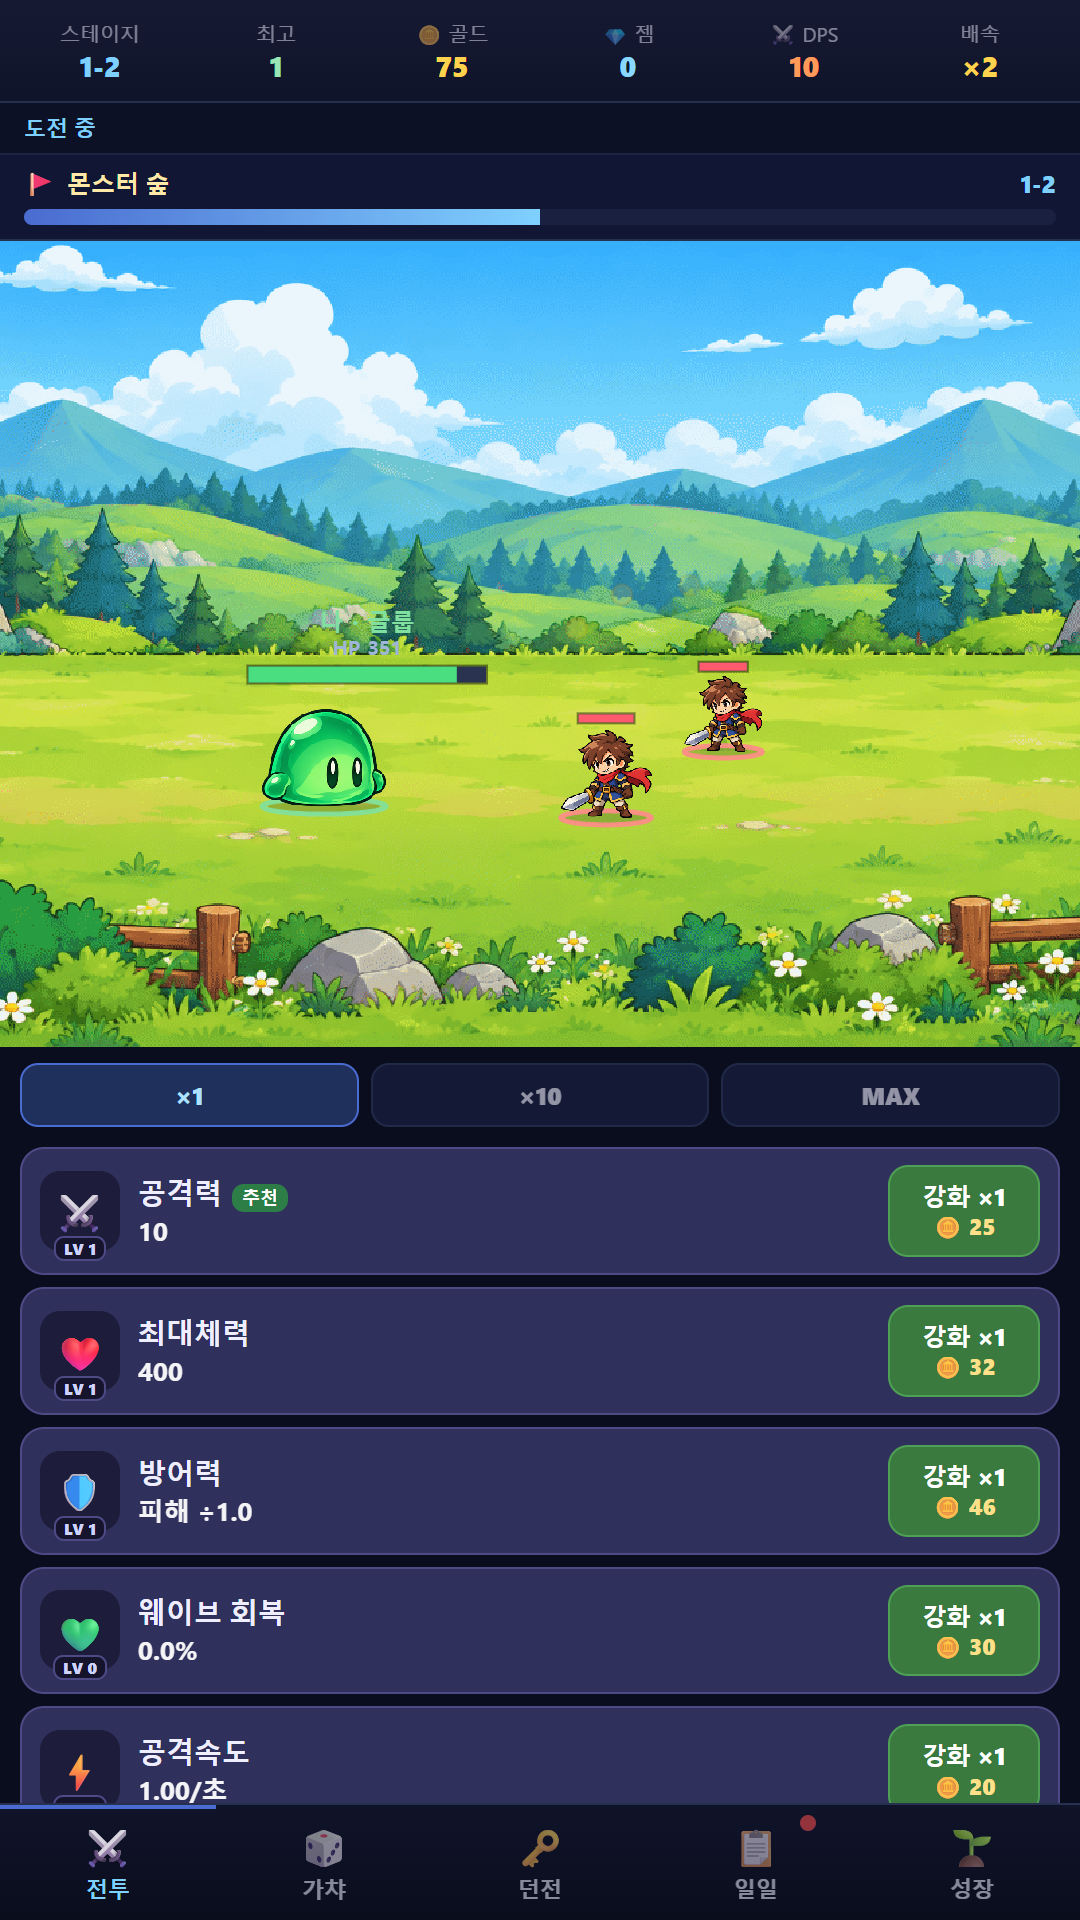
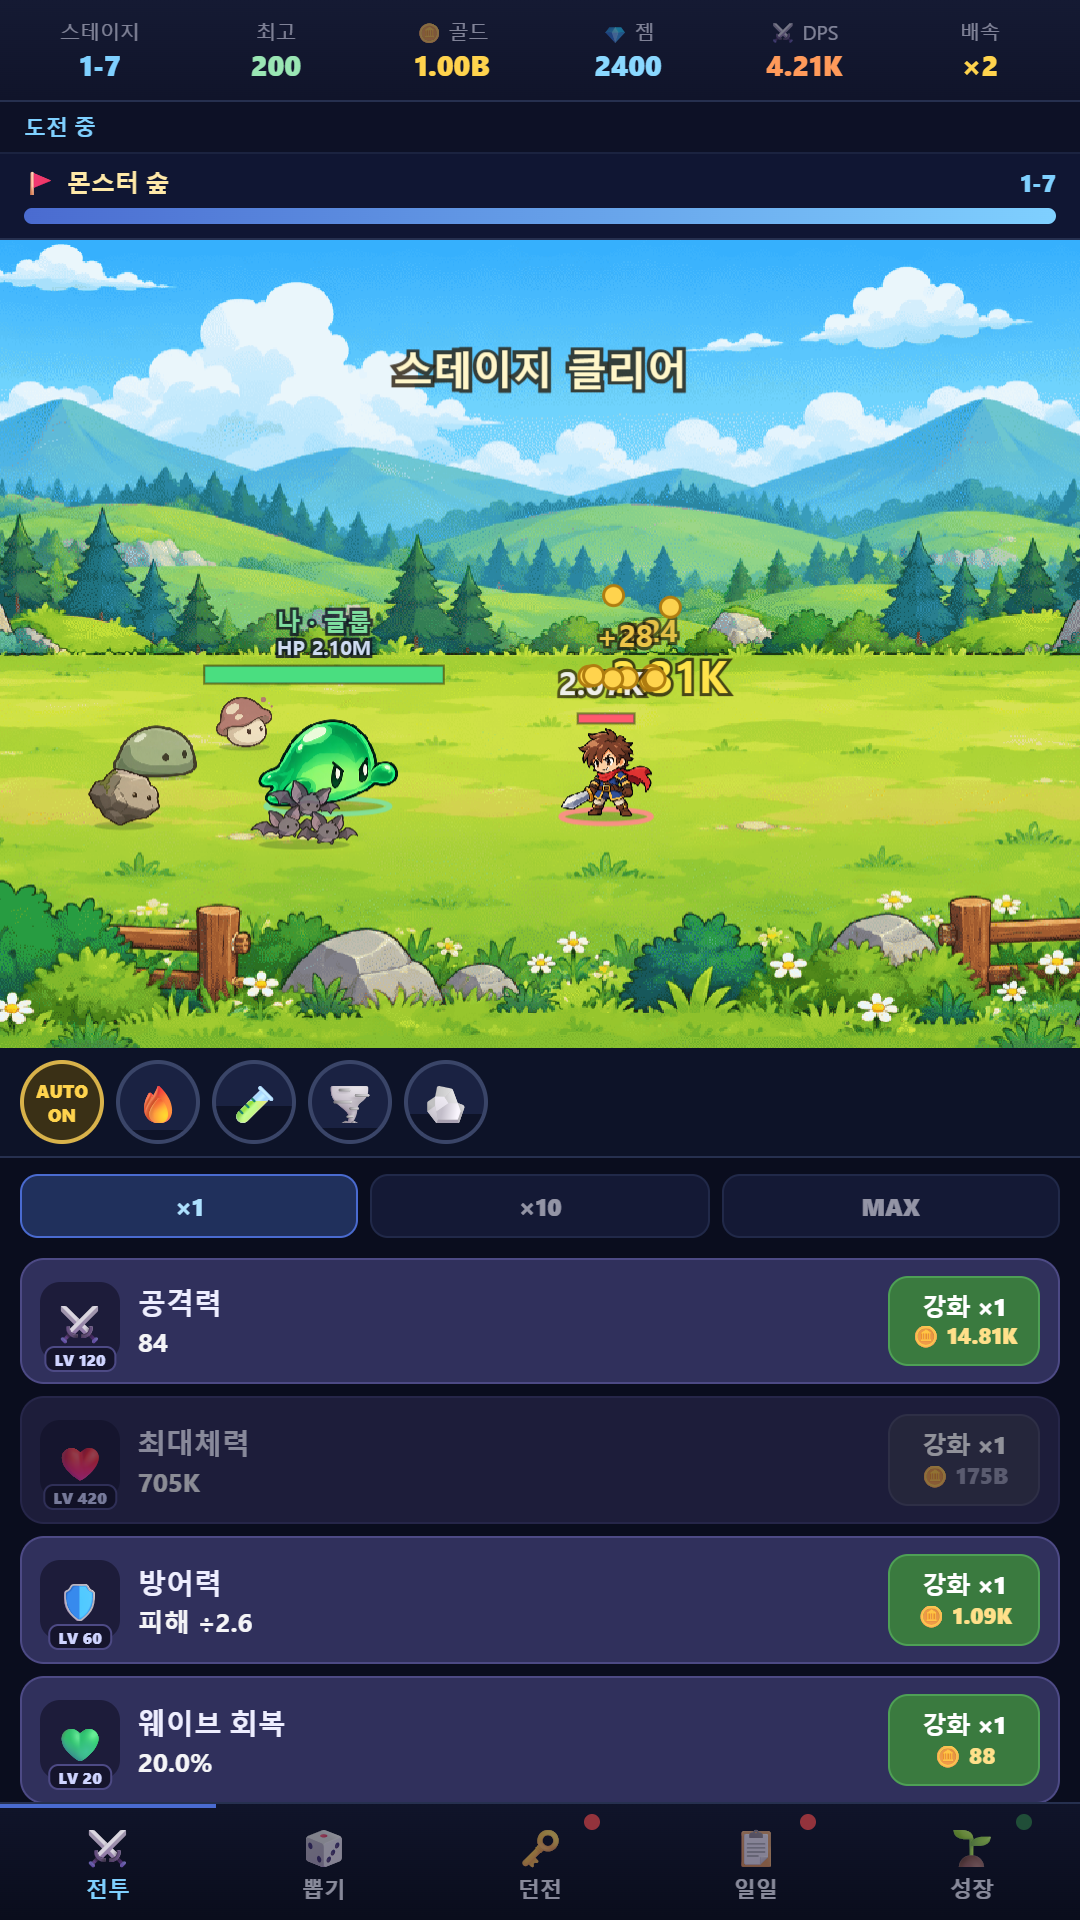
스토어 스크린샷을 전투 위주 4장으로 다시 촬영 + 촬영 도구
기존 5장은 13:51 에 찍혀 13:55 에 들어간 액티브 스킬이 빠져 있었다. 전투 위주로
다시 찍었다 — 숲 · 보스 · 해골 동굴 · 뽑기.

tools/shots.mjs 를 만들었다(npm run shots). 브라우저 패널로는 1080x1920 이
안 나와서, 설치된 크롬을 헤드리스로 띄우고 뷰포트 540x960 · deviceScaleFactor 2
로 찍는다. package.json 에 있던 puppeteer-core 가 설치만 안 돼 있었다.

촬영하며 잡은 것 둘:

1. 첫 장이 기본 세이브로 찍혔다. 앞 장면 페이지의 pagehide → save() 가 내가 심은
   세이브를 덮어쓰는 경합이었다. 장면마다 새 탭을 쓰고
   evaluateOnNewDocument 로 **게임 스크립트가 돌기 전에** 심도록 고쳤다.
   조용히 틀리기 쉬운 종류라 촬영 후 best 값을 확인해 경고를 찍게 했다.
2. 보스 샷이 보스가 아니었다. 2초 동안 보스를 깨고 지나간다 — 촬영 직전에
   보스 스테이지로 들여보내고 짧게 기다려 싸우는 중을 잡는다.

찍다가 게임 자체의 가독성 문제 둘도 고쳤다. 설원·풀밭처럼 밝은 배경에서 아군
이름과 HP 가 묻혀서 피해 숫자와 같은 어두운 외곽선을 깔았고(HP 바 x 좌표도
리드 위치 0.30 에 맞췄다 — 0.34 는 리드를 옮기기 전 값이었다), 보스 이름이 피해
숫자가 떠오르는 자리와 겹쳐서 위로 올렸다.

옛 5장 중 쓰지 않는 4장은 지웠다.

diff --git a/src/render.js b/src/render.js
@@ -273,15 +273,21 @@ export function render(dt) {
 
   const pbw = W * 0.22;
   const hpFrac = R.LhpMax > L0 ? ratio(R.Lhp, R.LhpMax) : 0;
-  bar(W * 0.34 - pbw / 2, feet - pH - 20, pbw, 8, hpFrac, hpFrac < 0.3 ? '#ff6b6b' : '#4ade80');
+  bar(W * 0.30 - pbw / 2, feet - pH - 20, pbw, 8, hpFrac, hpFrac < 0.3 ? '#ff6b6b' : '#4ade80');
+  // 배경이 밝으면(설원·풀밭) 글자가 묻힌다 — 피해 숫자와 같이 어두운 외곽선을 깐다
   ctx.textAlign = 'center';
-  ctx.fillStyle = ALLY;
-  ctx.font = '800 12px system-ui';
+  ctx.strokeStyle = 'rgba(12,18,34,.8)';
+  ctx.lineWidth = 3;
   const me = B.roster.monsters.find(m => m.key === S.mon);
-  ctx.fillText('나 · ' + (me ? me.name : '몬스터'), W * 0.34, feet - pH - 38);
-  ctx.fillStyle = '#9fb6d8';
+  const nameY = feet - pH - 38, hpY = feet - pH - 26;
+  ctx.font = '800 12px system-ui';
+  ctx.strokeText('나 · ' + (me ? me.name : '몬스터'), W * 0.30, nameY);
+  ctx.fillStyle = ALLY;
+  ctx.fillText('나 · ' + (me ? me.name : '몬스터'), W * 0.30, nameY);
   ctx.font = '600 10px system-ui';
-  ctx.fillText('HP ' + fmt(R.Lhp), W * 0.34, feet - pH - 26);
+  ctx.strokeText('HP ' + fmt(R.Lhp), W * 0.30, hpY);
+  ctx.fillStyle = '#cfdcf2';
+  ctx.fillText('HP ' + fmt(R.Lhp), W * 0.30, hpY);
 
   // ── 적 (용사) — 프레임 애니 + 피격 시 밀림 ──
   const hero = heroAt(R.stage);
@@ -320,8 +326,8 @@ export function render(dt) {
     ctx.font = '800 13px system-ui';
     ctx.strokeStyle = 'rgba(30,20,10,.7)'; ctx.lineWidth = 3;
     // 보스는 W*0.66 에 선다(위 drawn 참고). 이름표도 같은 x 여야 머리 위에 온다.
-    ctx.strokeText('👑 ' + hero.name, W * 0.66, feet - eH - 20);
-    ctx.fillText('👑 ' + hero.name, W * 0.66, feet - eH - 20);
+    ctx.strokeText('👑 ' + hero.name, W * 0.66, feet - eH - 46);
+    ctx.fillText('👑 ' + hero.name, W * 0.66, feet - eH - 46);
   }
 
 
